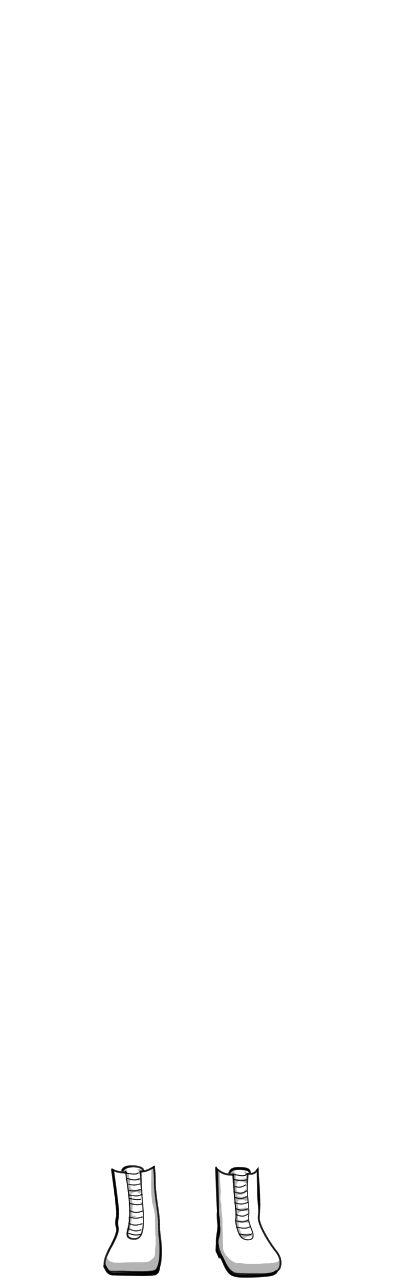
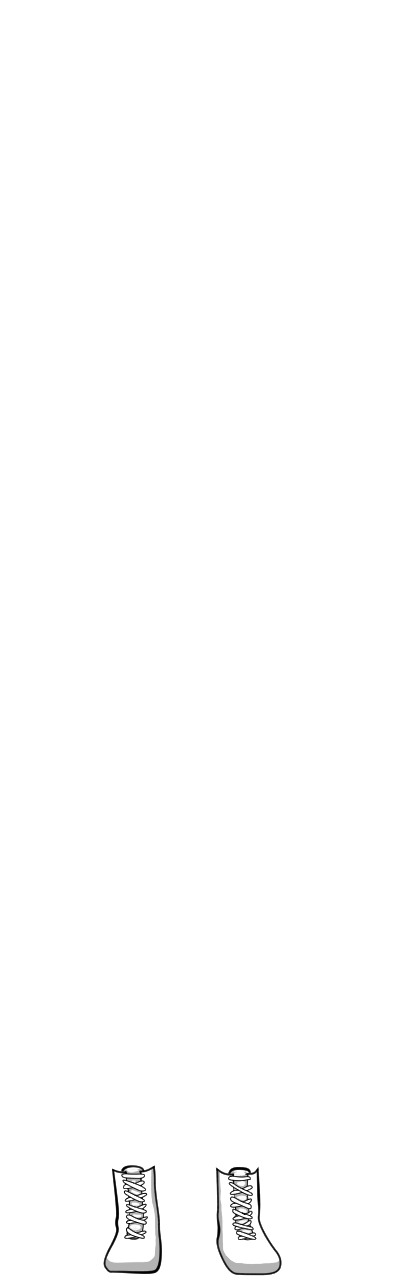
added shoe decs

Changed region(s): [[0.5496, 0.9062, 0.6412, 1.0], [0.3053, 0.9062, 0.3969, 0.9688]]

diff --git a/code/generated.js b/code/generated.js
@@ -46,7 +46,8 @@ const body_list_d = [["regular",],["regular",],[],[],[],true];
 const body_chest_list_d = [["none","small","medium","big",],["none",],[],[],[],true];
 const leg_list_d = [["none","regular",],["none","regular",],[],[],[],true];
 const socks_list_d = [["none","ankle high","mid calf","knee high","thigh high","tights",],["none","ankle high","mid calf",],[],[],[],true];
-const shoes_list_d = [["none","sandals","slip ons","sneakers","pumps","mary janes","high boots",],["none","sandals","slip ons","sneakers","boots",],[],[],[],false];
+const shoes_list_d = [["none","sandals","slip ons","sneakers","pumps","mary janes","high boots",],["none","sandals","slip ons","sneakers","boots",],[],["boots","sneakers",],[],false];
+const shoes_list_d_dec = [["boots","sneakers",],["boots","sneakers",],[],[],[],true];
 const gloves_list_d = [["none","medium gloves","bracelets","short gloves","wrist guards","wrist wraps",],["none","fingerless","short gloves","wrist guards","wrist wraps",],["wrist guards","wrist wraps",],[],[],true];
 const top_sleeve_list_d = [["sleeveless","short","long","broad","puffy","bell",],["sleeveless","short","long","broad","puffy shirt","long shirt","rolled",],["puffy","puffy shirt","bell",],[],[],true];
 const top_list_d = [["none","bikini","crop top","square","boatneck","gathered","low vee","sailor shirt","vest","tee","chinese collar","turtleneck","kimono",],["none","vest","tee","chinese collar","turtleneck","kimono","open shirt","button up","high collar shirt",],["high collar shirt",],["square","gathered","low vee",],[],false];
@@ -116,6 +117,7 @@ add_image_object("socks",socks_list_d,"clothes")
 add_defining_object("socks",socks_list_d)
 add_image_object("shoes",shoes_list_d,"clothes")
 add_defining_object("shoes",shoes_list_d)
+add_image_object("shoes_dec",shoes_list_d_dec,"clothes")
 add_image_object("gloves",gloves_list_d,"clothes")
 add_defining_object("gloves",gloves_list_d)
 add_image_object("top_sleeves",top_sleeve_list_d,"clothes/top")

diff --git a/code/lists_of_objects.js b/code/lists_of_objects.js
@@ -131,6 +131,9 @@ add_colour2_children("eyewear", ["eyewear_dec"]);
 add_value_children("neckwear", ["neckwear_dec"]);
 add_colour2_children("neckwear", ["neckwear_dec"]);
 
+add_value_children("shoes", ["shoes_dec"]);
+add_colour2_children("shoes", ["shoes_dec"]);
+
 //outfit
 add_value_children("body_chest", ["coat_chest","overshirt_chest","top_chest"]);
 

diff --git a/code/generate_images.py b/code/generate_images.py
@@ -210,7 +210,7 @@ shoes_list_u = ["none","sandals","slip ons","sneakers"]
 shoes_list_m = shoes_list_u +["boots"]
 shoes_list_f = shoes_list_u +["pumps","mary janes","high boots",] 
 shoes_list_w = []
-shoes_list_decs = []
+shoes_list_decs = ["boots","sneakers" ]
 shoes_list_d = [shoes_list_f, shoes_list_m, shoes_list_w,shoes_list_decs,[],False]
 
 hair_extra_list_u = ["none","topknot"]
@@ -587,7 +587,7 @@ def runStuff():
     #"back","socks","shoes","gloves"
     
     for c in closet:
-        if c.name in ["eyewear"]:
+        if c.name in ["shoes"]:
             process_portrait_part(c)
 
     makeHourglass()        
